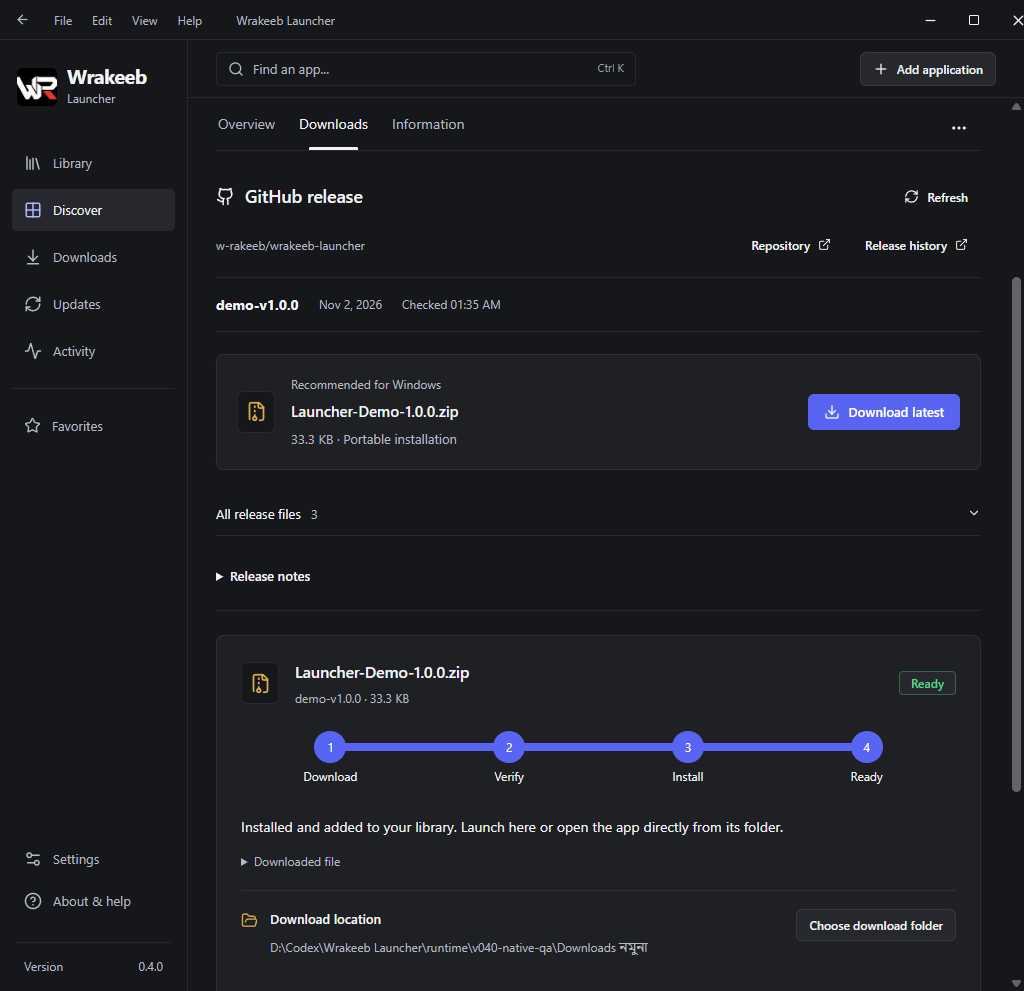
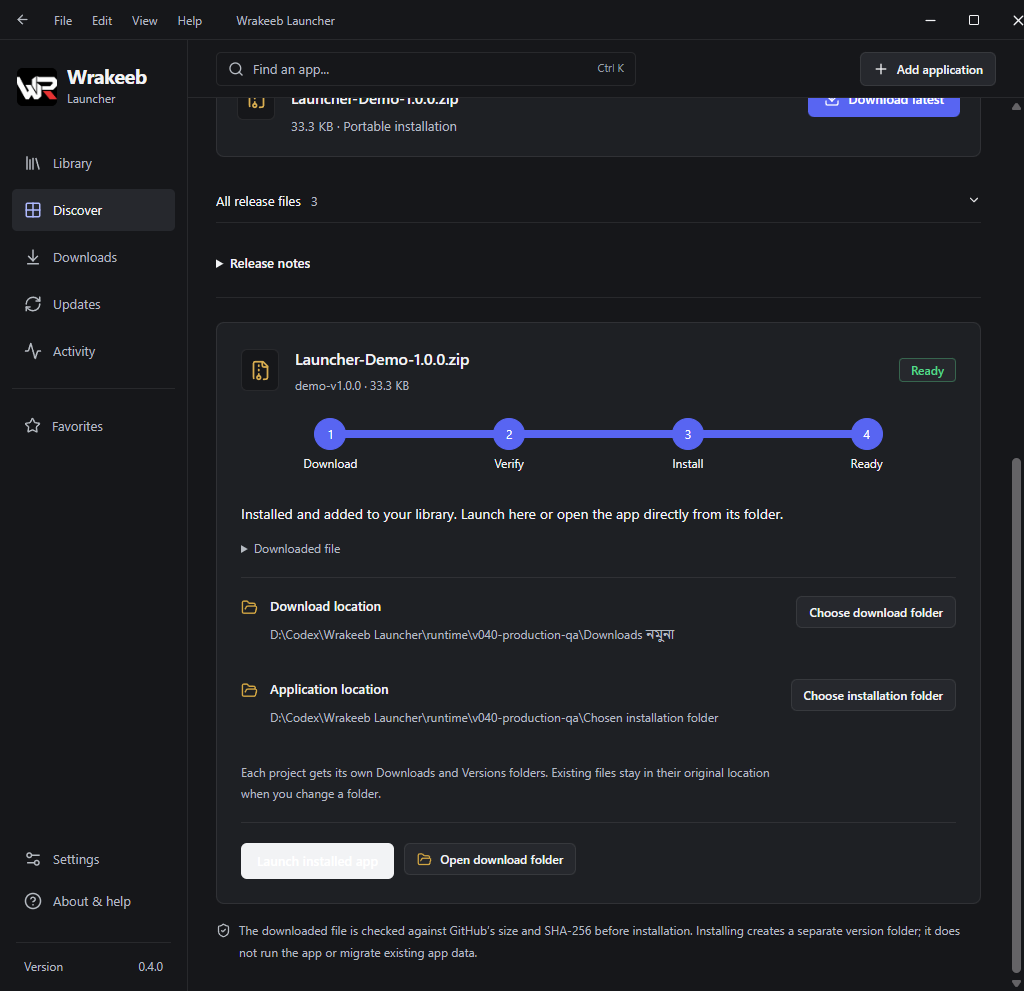
Record 0.4.0 production and installer verification with current screenshots

diff --git a/docs/VERIFICATION-v0.4.0.md b/docs/VERIFICATION-v0.4.0.md
@@ -1,0 +1,38 @@
+# Wrakeeb Launcher 0.4.0 verification
+
+3 November 2026, Asia/Dhaka.
+
+## Passed
+
+- TypeScript/Vite and optimized Windows x64 NSIS builds.
+- 3 catalog checks, 9 browser checks and 19 Rust checks. Browser coverage includes 1440/900/768/390px overflow and sidebar containment, gallery/viewer, mutations, error feedback, direct-download failures and update recovery.
+- Taste app inspection at 1440/900/768px: no findings; screenshots reviewed.
+- Production executable runs with the preview server stopped. Native tray registration and shell rectangle, hide/show, close-to-tray and minimize-to-tray pass on monitor 2.
+- Existing Dual Steam is detected and shows Launch instead of Download. Read-only bounded scan found five catalog apps while checking 1,500 folders. No real Steam or linked utility was launched by this QA.
+- Real latest demo ZIP download, GitHub integrity verification, Unicode download-root path, chosen install-root persistence, per-project Downloads/Versions directories and package/installed byte counts pass.
+- Installed GUI demo runs independently after launcher exit. Bundled license notices load through the production app protocol.
+- Actual current-user installer into an isolated folder: empty writable library, four themes/five accents, keyboard settings tabs, maximize/restore, public Dual Steam ZIP and inert CMD package installation without executing either.
+- Installer includes privacy/security/rights and full dependency notices. Its removal preserves the QA library, independent applications and personal desktop shortcut; its registry entry is removed.
+- Official Brightness Control assets match SHA-256 against pinned upstream commit aba1f586e3456f38ece6e6612bb208f4a3bf96a5. Current artwork manifest verified.
+- Portable ZIP has exactly the standalone EXE, release notes and four notice/policy documents, with no library, profile, account or QA data.
+- Windows CI at tested application commit 6b69b6a19cf7d4923352fa3680896dca2143de20 passed: https://github.com/w-rakeeb/wrakeeb-launcher/actions/runs/41512701022
+
+## Artifact SHA-256
+
+Standalone EXE: 66a3072d1973cb1291df441741b0110f13b1fec3d82c862d9b6cdc41d94837ac
+
+Setup EXE: 174718048abf5617fd72b31b23dc513a7c175e4a165ab7b47f150af9263f2a15
+
+Portable ZIP: 68a6e2a8aa4300eaf2eb99d63d18abe21fccc976258b295f925b471bbeb25769
+
+## Limits and remaining work
+
+- Windows 11 tested locally. Separate Windows 10/recipient-PC, missing-WebView2 bootstrap, ARM64/32-bit, Narrator/high-contrast and physical-DPI validation are outstanding. Binaries are unsigned.
+- Native folder dialog placement and cancellation are verified on monitor 2. Selection is not fully automated because focus protection blocks scoped keyboard automation. Custom-root persistence and resulting filesystem paths are verified separately.
+- The first opening of the full dependency notice panel can take several seconds in WebView2. It is loaded on demand and does not block normal launcher startup.
+- One transfer at a time; queue/pause/resume, managed uninstall/repair and automatic app-data migration remain planned. Detection identifies expected filenames/executable structure, not a cryptographically verified publisher.
+- Coucou artwork is omitted from current binaries/source tree. Older archives/history remain untouched, with unresolved permissions. No blanket legal/security compliance certification is made.
+
+## Post-publication checks
+
+The authentic v0.3.0-to-v0.4.0 public upgrade and personal-copy replacement are performed after publication. Their results will be recorded in the final delivery report without moving the release tag or replacing release assets.

diff --git a/README.md b/README.md
@@ -89,3 +89,7 @@ Compact File/Edit/View/Help menus replace the breadcrumb. Project pages separate
 New users default to the writable current-user Windows Programs folder named Wrakeeb Launcher, with per-project Downloads and Versions subfolders. Existing explicit folder choices and legacy receipts remain intact; no files are silently moved. Folder controls are available beside package operations.
 
 Read [privacy](PRIVACY.md), [security boundaries](SECURITY.md), [rights review](docs/RIGHTS-REVIEW.md) and [dependency notices](docs/THIRD-PARTY-NOTICES.txt). Coucou artwork is omitted from v0.4.0 because permission is unconfirmed; older archives have unresolved artwork permissions.
+
+![Project overview](docs/images/details.png)
+
+[0.4.0 validation and remaining limits](docs/VERIFICATION-v0.4.0.md).
